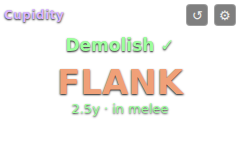
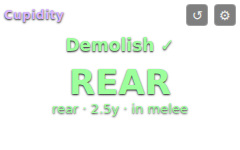
Show anticipated positional as the big word; hide overlay without a target
- Big text is now the positional you need next, tracked from combo
  actions (SAM Jinpu/Shifu, DRG Disembowel/Spiral Blow) and buffs
  (RPR Enhanced Gibbet/Gallows, VPR venoms), green when standing in it
  and red when not; falls back to the current sector when unknowable
  (MNK/NIN or no combo in flight).
- Current sector moved into the small range line.
- With no target the overlay renders nothing (settings stay reachable
  on hover; placeholder text shows while unlocked for placement).

Claude-Session: https://claude.ai/code/session_01AX2jPfWNfUontYo9613m1C

Changed region(s): [[0.2333, 0.4533, 0.7875, 0.64], [0.2042, 0.6667, 0.6708, 0.8], [0.7, 0.6933, 0.7875, 0.7733]]

diff --git a/overlay/js/app.js b/overlay/js/app.js
@@ -42,6 +42,7 @@
     targetId: null,
     trueNorth: false,
     trueNorthTimer: null,
+    anticipated: null, // {pos, source:'action'|'status', key, until}
     stats: new Map(), // action name → {hit, miss}
     lastPoll: null,
     pollBusy: false,
@@ -129,13 +130,43 @@
     renderStats();
   }
 
+  // ---------- anticipated positional ----------
+  function matchHint(list, id, name) {
+    const n = String(name || '').toLowerCase();
+    return list.find((h) => (h.id != null && h.id === id) || h.en.toLowerCase() === n) || null;
+  }
+
+  function activeAnticipated() {
+    const a = state.anticipated;
+    if (!a) return null;
+    if (a.until && Date.now() > a.until) {
+      state.anticipated = null;
+      return null;
+    }
+    return a;
+  }
+
   // ---------- positional result handling ----------
   function onAbilityLine(fields) {
     const line = Core.parseAbilityLine(fields);
     if (!line || line.sourceId !== state.playerId) return;
     if (line.targetIndex !== null && line.targetIndex !== 0) return; // count once
+
+    const hint = matchHint(Data.ANTICIPATE.actions, line.abilityId, line.abilityName);
+    if (hint) {
+      state.anticipated = {
+        pos: hint.pos,
+        source: 'action',
+        until: Date.now() + Data.ANTICIPATE.actionTimeoutMs,
+      };
+    }
+
     const action = actionIndex.find(line.abilityId, line.abilityName);
     if (!action) return;
+
+    // The awaited combo step just resolved — the hint is consumed.
+    if (state.anticipated && state.anticipated.source === 'action' && !hint)
+      state.anticipated = null;
 
     const res = Core.classifyPositional(action, line, { trueNorth: state.trueNorth });
     if (res.hit === null) return; // dodged / unresolvable
@@ -161,6 +192,16 @@
   function onStatusLine(fields) {
     const st = Core.parseStatusLine(fields);
     if (!st || st.targetId !== state.playerId) return;
+
+    const hint = matchHint(Data.ANTICIPATE.statuses, st.effectId, st.name);
+    if (hint) {
+      const key = hint.id != null ? hint.id : hint.en;
+      if (st.gained) state.anticipated = { pos: hint.pos, source: 'status', key, until: null };
+      else if (state.anticipated && state.anticipated.source === 'status' && state.anticipated.key === key)
+        state.anticipated = null;
+      return;
+    }
+
     const tn = Data.STATUS.TRUE_NORTH;
     if (st.effectId !== tn.id && st.name !== tn.en) return;
     clearTimeout(state.trueNorthTimer);
@@ -202,11 +243,16 @@
 
   function renderRadar() {
     const p = state.lastPoll;
-    if (!p || !state.targetId) {
+    const hasTarget = !!(p && state.targetId);
+    // Show nothing at all without a target (topbar stays reachable on hover).
+    document.body.classList.toggle('no-target', !hasTarget);
+    if (!hasTarget) {
       radar.draw({ hasTarget: false });
-      sectorEl.textContent = 'no target';
-      sectorEl.className = 'sector';
-      rangeEl.textContent = '';
+      // Only visible while the overlay is unlocked for placement.
+      sectorEl.textContent = 'REAR';
+      sectorEl.className = 'sector want ok';
+      rangeEl.textContent = 'no target';
+      rangeEl.className = 'range';
       return;
     }
     const rel = Core.relativeAngle(p.target, p.player);
@@ -223,11 +269,23 @@
       meleeReach: config.meleeReach,
       mirror: config.mirror,
     });
-    sectorEl.textContent = sector.toUpperCase();
-    sectorEl.className = 'sector ' + sector;
+
+    // Big word: the positional you need next (green when you're standing in
+    // it, red when not). Falls back to the current sector when the next
+    // positional isn't knowable (MNK/NIN, or no combo in flight).
+    const ant = activeAnticipated();
+    if (ant) {
+      const inPos = state.trueNorth || sector === ant.pos;
+      sectorEl.textContent = ant.pos.toUpperCase();
+      sectorEl.className = 'sector want ' + (inPos ? 'ok' : 'bad');
+    } else {
+      sectorEl.textContent = sector.toUpperCase();
+      sectorEl.className = 'sector ' + sector;
+    }
+
     const edge = dist - config.hitboxRadius;
     const inMelee = dist <= config.hitboxRadius + config.meleeReach;
-    rangeEl.textContent = `${edge.toFixed(1)}y ${inMelee ? '· in melee' : '· OUT OF RANGE'}`;
+    rangeEl.textContent = `${sector} · ${edge.toFixed(1)}y ${inMelee ? '· in melee' : '· OUT OF RANGE'}`;
     rangeEl.className = 'range' + (inMelee ? '' : ' out');
   }
 
@@ -280,6 +338,7 @@
     document.body.classList.add('demo');
     let t = 0;
     state.targetId = 1;
+    state.anticipated = { pos: 'rear', source: 'action', until: null };
     setInterval(() => {
       t += 0.05;
       const orbit = 4.5 + 3 * Math.sin(t / 3);

diff --git a/overlay/js/data.js b/overlay/js/data.js
@@ -58,6 +58,30 @@
     TRUE_NORTH: { id: 0x4e2, en: 'True North' },
   };
 
+  /* Anticipated-positional hints: what the player is expected to need next.
+   * actions: after the player uses this, the next combo step has `pos`.
+   * statuses: while the player has this buff, the buffed finisher has `pos`.
+   * MNK and NIN stay ambiguous (both positionals live on the same form /
+   * combo step), so they fall back to showing the current sector. */
+  const ANTICIPATE = {
+    actions: [
+      { id: 7478, en: 'Jinpu', job: 'SAM', pos: 'rear' }, // → Gekko
+      { id: 7479, en: 'Shifu', job: 'SAM', pos: 'flank' }, // → Kasha
+      { id: 87, en: 'Disembowel', job: 'DRG', pos: 'rear' }, // → Chaotic Spring
+      { id: 36955, en: 'Spiral Blow', job: 'DRG', pos: 'rear', verify: true }, // → Chaotic Spring
+    ],
+    statuses: [
+      { id: 2588, en: 'Enhanced Gibbet', pos: 'flank', verify: true },
+      { id: 2589, en: 'Enhanced Gallows', pos: 'rear', verify: true },
+      { id: null, en: 'Flankstung Venom', pos: 'flank' },
+      { id: null, en: 'Flanksbane Venom', pos: 'flank' },
+      { id: null, en: 'Hindstung Venom', pos: 'rear' },
+      { id: null, en: 'Hindsbane Venom', pos: 'rear' },
+    ],
+    // An action-sourced hint goes stale if the combo is dropped.
+    actionTimeoutMs: 30000,
+  };
+
   const DEFAULTS = {
     // Enemy hitbox radius is not exposed to external tools, so the radar ring
     // is configurable. 5y suits most raid bosses; small trash is ~2y.
@@ -66,5 +90,5 @@
     meleeReach: 3.5,
   };
 
-  return { POSITIONAL_ACTIONS, STATUS, DEFAULTS };
+  return { POSITIONAL_ACTIONS, STATUS, ANTICIPATE, DEFAULTS };
 });

diff --git a/overlay/cupidity.css b/overlay/cupidity.css
@@ -81,6 +81,8 @@ html, body {
 .sector.front { color: #cfd2d6; }
 .sector.flank { color: #f0a078; }
 .sector.rear { color: #cda0ff; }
+.sector.want.ok { color: #9cff9c; }
+.sector.want.bad { color: #ff7a7a; }
 .range { color: #9cff9c; }
 .range.out { color: #ff7a7a; font-weight: 700; }
 
@@ -124,6 +126,14 @@ body.simple .splash { font-size: 17px; }
 body.simple .sector { font-size: 34px; line-height: 1.1; }
 body.simple .range { font-size: 13px; }
 body.simple #status { flex-direction: column; align-items: center; gap: 0; }
+
+/* no target — show nothing (topbar/settings stay reachable on hover) */
+body.no-target #radar-wrap,
+body.no-target #status,
+body.no-target #stats,
+body.no-target #feed { display: none; }
+body.unlocked.no-target #radar-wrap,
+body.unlocked.no-target #status { display: flex; }
 
 /* unlocked / resize mode */
 #resize-hint { display: none; color: #ccc; font-size: 11px; }